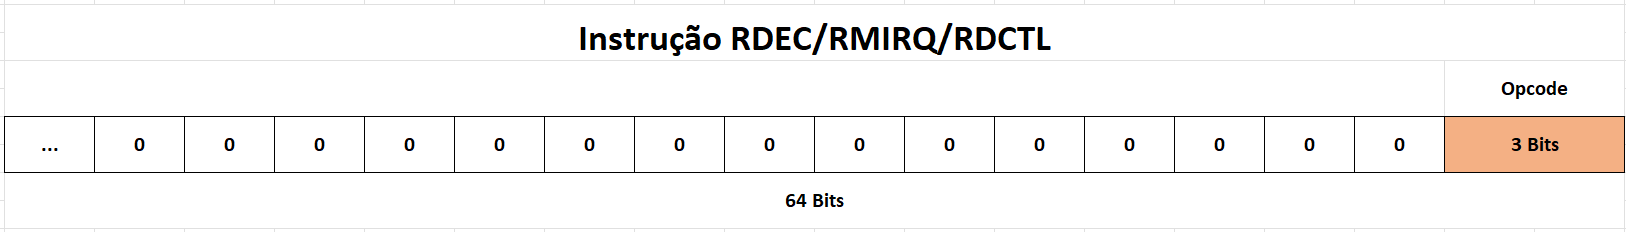
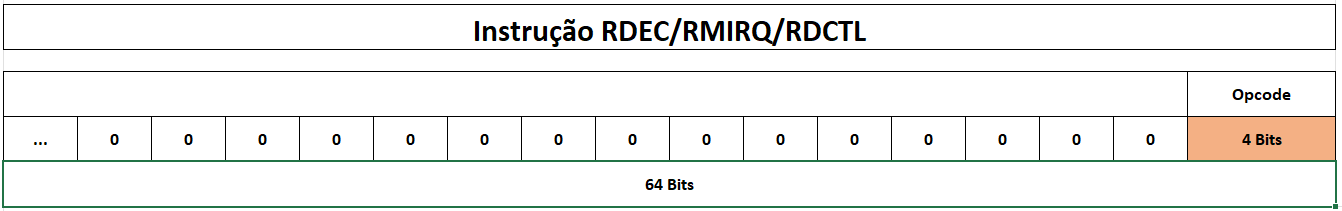
:books: doc: Intruções de leitura

diff --git a/doc/Modulo de IO/README.md b/doc/Modulo de IO/README.md
@@ -320,10 +320,10 @@ O **módulo MUX** é responsável por selecionar o tipo de dado que será lido p
 
 |Endereço |        Descrição         |
 |--------|---------------------------|
-| 00      | Registrador de dados     |
-| 01      | Registrador de controle  |
-| 10      | Registrador de máscara de interrupção |
-| 11      |  Não utilizado |
+| 0b00      | Registrador de dados     |
+| 0b01      | Registrador de controle  |
+| 0b10      | Registrador de máscara de interrupção |
+| 0b11      |  Não utilizado |
 
 </div>
 <p align="center">
@@ -331,7 +331,7 @@ O **módulo MUX** é responsável por selecionar o tipo de dado que será lido p
 
 <h3> Comunicação com o Processador</h3>
 
-O módulo de I/O é controlado pelo processador NIOS II, que envia comandos para ler e escrever dados nos registradores internos do módulo. Para realizar essa comunicação, utiliza-se acesso direto à memória, sem o uso de mapeamento de memória. O processador se comunica com todos os módulos da arquitetura através do barramento Avalon MM de 32 bits. Para acomodar o módulo de I/O, foi definida uma estrutura de 64 bits, visando a compatibilidade com projetos futuros.
+O módulo de I/O é controlado pelo processador NIOS II, que envia comandos para ler e escrever dados nos registradores internos do módulo. Para realizar essa comunicação, utiliza-se acesso direto à memória, sem o uso de mapeamento de memória. O processador se comunica com todos os módulos da arquitetura através do barramento **Avalon MM** de 32 bits. Para acomodar o módulo de I/O, foi definida uma estrutura de 64 bits, visando a compatibilidade com projetos futuros.
 
 Para integrar o barramento Avalon ao módulo de I/O, foi necessário implementar um intermediário. Embora essa decisão tenha acarretado a perda de alguns sinais de controle, ela permitiu manter a estrutura de 64 bits para expansões futuras. Para utilizar a leitura de dados, o processdor deve escrever o registrador desejado com base no **conjunto de instrução** e, em seguida, ler o valor do registrador de saída.
 
@@ -353,60 +353,76 @@ parâmetros de controle. A tabela a seguir apresenta o conjunto de instruções 
 | 0x04   |  RDEC     | Lê o registrador de dados/edgeCapture|
 | 0x05   |  RCTL     | Lê o registrador de controle|
 | 0x06   |  RMIRQ    | Lê o registrador de máscara de interrupção|
-| 0x07   |  ------   | Não utilizado|
-| 0x08   |  WDEC     | Escreve no registrador de dados/edgeCapture|
-| 0x09   |  WCTL     | Escreve no registrador de controle|   
-| 0x0A   |  WMIRQ    | Escreve no registrador de máscara de interrupção|
+| 0x07   |  WDEC     | Escreve no registrador de dados/edgeCapture|
+| 0x08   |  WCTL     | Escreve no registrador de controle|   
+| 0x09   |  WMIRQ    | Escreve no registrador de máscara de interrupção|
 
 </div>
 <p align="center">
-<strong> Tabela com os opcodes da interface de comunicação</strong></p>
+<strong> Tabela 6: Opcodes da interface de comunicação</strong></p>
 
 <h4> Instruções RCTL, RDEC e RMIRQ</h4>
 
-As instruções RCTL, RDEC e RMIRQ são usadas para ler registradores específicos: RCTL lê o registrador de controle, RDEC lê o registrador de dados/captura de borda (*edgeCapture*), e RMIRQ lê o registrador de máscara de interrupção. Quando o opcode correspondente ao registrador é escrito, o valor do registrador respectivo é enviado para os registradores de leitura. A figura a seguir ilustra o formato dessas instruções.
+As **instruções RCTL, RDEC e RMIRQ** são usadas para ler registradores específicos: RCTL lê o registrador de controle, 
+RDEC lê o registrador de dados/captura de borda (*edgeCapture*), e RMIRQ lê o registrador de máscara de interrupção. 
+Quando o opcode correspondente ao registrador é escrito, o valor do registrador respectivo é enviado para os registradores de 
+leitura. A figura a seguir ilustra o formato dessas instruções.
 
 <p align="center"> <img src="img/INT4.png" width="1000" /> </p> <p align="center"><strong> Figura: Formato das instruções RCTL, RDEC e RMIRQ</strong></p>
 
-Para uso na arquitetura de 32 bits, a instrução é dividida em duas partes: a primeira parte contém o opcode, enquanto a segunda parte é um campo vazio, reservado para possíveis expansões ou configurações adicionais.
+Para uso na arquitetura de 32 bits, a instrução é dividida em duas partes: a primeira (32 bits mais significativos, sigla MSB) parte
+ contém o opcode, enquanto a segunda (32 bits menos significativos, sigla LSB) parte é um campo vazio, reservado para possíveis expansões ou configurações adicionais.
 
 <p align="center"> <img src="img/INT4_32.png" width="1000" /> </p> <p align="center"><strong> Figura: Formato das instruções RCTL, RDEC e RMIRQ com 32 bits</strong></p>
 
 <h4> Instrução WCTL</h4>
 
+A **instrução WCTL** é usada para escrever no registrador de controle. O processador deve enviar o opcode correspondente ao registrador de controle, seguido pelo valor a ser escrito. A figura a seguir ilustra o formato dessa instrução.
+
 <p align="center">
   <img src="img/INT1.png" width = "1000" />
 </p>
-<p align="center"><strong> Formato da instrução WCTL</strong></p>
+<p align="center"><strong> Figura: Formato da instrução WCTL</strong></p>
+
+Para uso na arquitetura de 32 bits, a instrução é dividida em duas partes: a primeira (MSB) parte contém o opcode, o sinal de enable, o sinal de reset e o sinal de cancelamento de ruído, enquanto a segunda (LSB) parte contém o seletor de borda. 
+A figura a seguir ilustra o formato dessa instrução para 32 bits.
 
 <p align="center">
   <img src="img/INT1_32.png" width = "1000" />
 </p>
-<p align="center"><strong> Formato da instrução WCTL para 2 partes de 32 bits</strong></p>
+<p align="center"><strong>  Figura: Formato da instrução WCTL para 2 partes de 32 bits</strong></p>
 
 <h4> Instrução WDEC</h4>
+
+A **instrução WDEC** é usada para escrever no registrador de dados/captura de borda (*edgeCapture*). Ao Utilizar essa instrução, os regisradores de captura de borda são limpos nos locais onde o valor 1 é escrito. A figura a seguir ilustra o formato dessa instrução.
 
 <p align="center">
   <img src="img/INT3.png" width = "1000" />
 </p>
-<p align="center"><strong> Formato da instrução WDEC</strong></p>
+<p align="center"><strong>Figura: Formato da instrução WDEC</strong></p>
 
-<p align="center">
-  <img src="img/INT2_32.png" width = "1000" />
-</p>
-<p align="center"><strong> Formato da instrução WDEC para 2 partes de 32 bits</strong></p>
-
-<h4> Instrução WMIRQ</h4>
-
-<p align="center">
-  <img src="img/INT2.png" width = "1000" />
-</p>
-<p align="center"><strong> Formato da instrução WMIRQ</strong></p>
+Para uso na arquitetura de 32 bits, a instrução é dividido em duas partes: a primeira (MSB) parte contém o opcode, enquanto a segunda (LSB) parte é os registradores de captura de borda a serem limpos. A figura a seguir ilustra o formato dessa instrução para 32 bits.
 
 <p align="center">
   <img src="img/INT3_32.png" width = "1000" />
 </p>
-<p align="center"><strong> Formato da instrução WMIRQ para 2 partes de 32 bits</strong></p>
+<p align="center"><strong> Figura: Formato da instrução WDEC para 2 partes de 32 bits</strong></p>
+
+<h4> Instrução WMIRQ</h4>
+
+A **instrução WMIRQ** é usada para escrever no registrador de máscara de interrupção. Ela permite habilitar ou desabilitar interrupções específicas, configurando o tipo de interrupção para cada periférico. A figura a seguir ilustra o formato dessa instrução.
+
+<p align="center">
+  <img src="img/INT2.png" width = "1000" />
+</p>
+<p align="center"><strong> Figura: Formato da instrução WMIRQ</strong></p>
+
+Para uso na arquitetura de 32 bits, a instrução é dividida em duas partes: a primeira (MSB) parte contém o opcode e a seleção de interrupção, enquanto a segunda (LSB) parte é o seletor de borda. A figura a seguir ilustra o formato dessa instrução para 32 bits.
+
+<p align="center">
+  <img src="img/INT2_32.png" width = "1000" />
+</p>
+<p align="center"><strong> Figura: Formato da instrução WMIRQ para 2 partes de 32 bits</strong></p>
 
 
 </div>
